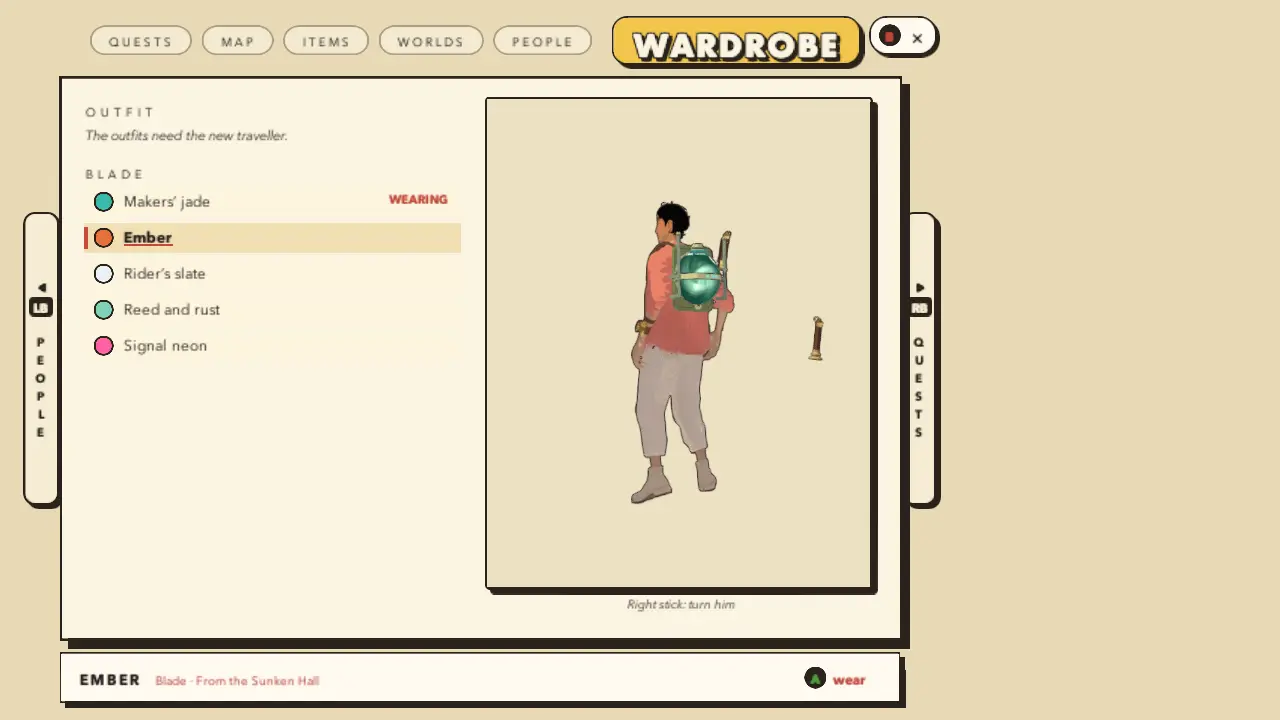
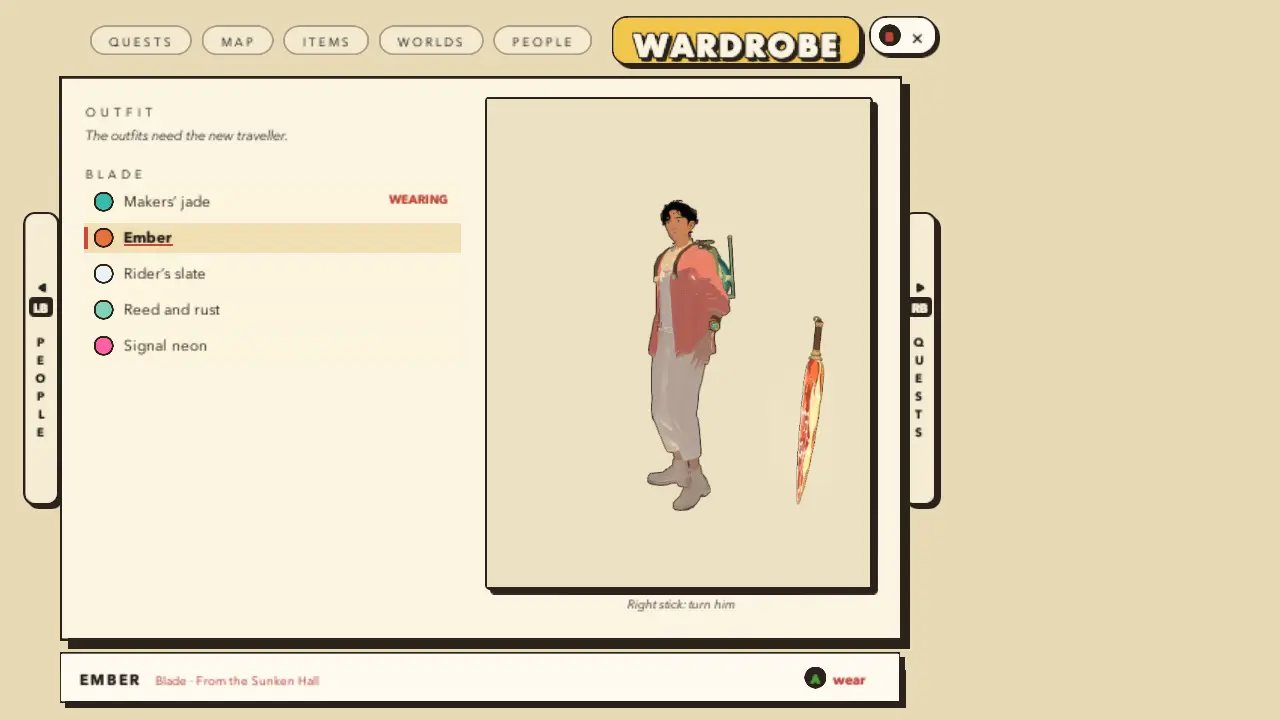
Fixes #571: the Wardrobe's sword shows its whole blade in Unity, in the colour the cursor is on; and on the page he breathes and glances about instead of standing frozen
- The cause: the blade (and the shield) are drawn by the Surface shader's fight variant (HIRAETH_FIGHT), which
  declares the foes' StructuredBuffer _SkinData; the blade's material was never given one. Metal skips any draw whose
  buffer is unbound ("Hiraeth/Surface requires a ComputeBuffer at index 3 to be bound, but none provided. Skipping
  draw calls" in the batch log), so the blade drew only in a fight, where a foe's draw had bound its buffer just
  before. Seen by forcing the keyword: with HIRAETH_FIGHT on every kept material the whole traveller vanished, with
  it off the blade drew (white); the main camera drew nothing of it either.
- The fix: WorldLoader binds the blade's and the shield's material an empty buffer of its own (NoSkinData, one slot).
  Checked in Unity (batch, muted, -wardrobe -wardrobe-yaw 0.9 -set-flags the four colours): the blade in jade, ember,
  slate and reed as the cursor moves, against the web's pictures of the same page at the same turn.
- He is not frozen on the page (src/wardrobe.js PageIdle, shared by both hosts): his chest breathes and sways, his
  head glances and nods, his shoulders move with the breath, over the pose the menu opened on (the upper body's bones
  only, turned about his own frame's axes: his feet stay planted); put back as he was when the page is left. Seen
  moving in both (the web's frames 1.3 s apart; Unity's shots of the pinned turn differ round the head).
[…]

Changed region(s): [[0.4688, 0.275, 0.5938, 0.7028], [0.625, 0.4889, 0.6562, 0.6722]]

diff --git a/src/wardrobe.js b/src/wardrobe.js
@@ -19,8 +19,8 @@
 //   w.preview(cell)          the highlighted cell (or null): him and the sword in it
 //   w.wear(kind, id)         A / × on a cell: saved and worn in the world
 //   w.leave()                the page left (another panel, the menu closed): him as he was, the sword put away
-//   w.place(shot) · w.tick(dt) · w.keep()   each drawn frame: the sword beside him for the shot, its breath, what the
-//                            preview draws (him, the sword)
+//   w.place(shot) · w.tick(dt) · w.keep()   each drawn frame: the sword beside him for the shot, its breath and his
+//                            (PageIdle: the world is still under the menu, he is not), what the preview draws (him, the sword)
 //   wardrobeShot(player, yaw) → { eye, look, fov }: the camera on him, `yaw` round him from his front
 
 import * as THREE from 'three';
@@ -168,6 +168,64 @@ export function placeSword(g, { eye, look }, feet, up, P = PLANTED) {
   return g;
 }
 
+// ------------------------------------------------------------------ him at rest on the page
+
+/**
+ * The world stands still under the menu, so he would too, frozen in the frame the menu opened on: on the page he breathes
+ * and looks about a little instead, over that pose, his upper body only (his feet stay planted). The chest `breath` rad at
+ * `breathRate` rad/s and `sway` rad side to side at `swayRate`; the head `look` rad round at `lookRate`, `nod` rad down
+ * and up; the shoulders `arms` rad in and out with the breath.
+ */
+export const PAGE_IDLE = { breath: 0.022, breathRate: 1.7, sway: 0.03, swayRate: 0.41, look: 0.13, lookRate: 0.27, nod: 0.03, arms: 0.03 };
+// (his skeleton's bones it moves: humanoid.js's names; each turned about an axis of his own frame, x across, y up, z ahead)
+const IDLE_BONES = ['spine_02', 'spine_03', 'neck_01', 'Head', 'upperarm_l', 'upperarm_r'];
+const _ax = new THREE.Vector3(), _iq = new THREE.Quaternion(), _rq = new THREE.Quaternion(), _bq = new THREE.Quaternion();
+/**
+ * The page's idle (wireWardrobe's): `pose(bones, root, t)` each frame the page draws him (`bones` humanoid.b, by name;
+ * `root` his object), `put()` him as he was when the page is left. The pose under it is taken again whenever something
+ * else moved him since (the game ran between two visits to the page).
+ */
+export class PageIdle {
+  constructor(P = PAGE_IDLE) { this.P = P; this.held = null; this.wrote = null; }
+  /** The bones' turns at time t (s), by name: [axis (his frame), rad]s. */
+  turns(t) {
+    const P = this.P, breath = Math.sin(t * P.breathRate), sway = Math.sin(t * P.swayRate + 0.6);
+    const look = Math.sin(t * P.lookRate) * Math.min(1, Math.abs(Math.sin(t * P.lookRate * 0.5 + 1)) * 1.6);   // (dwells, then glances)
+    return {
+      spine_02: [[1, 0, 0, -0.5 * P.breath * breath], [0, 0, 1, 0.5 * P.sway * sway]],
+      spine_03: [[1, 0, 0, -0.5 * P.breath * breath], [0, 0, 1, 0.5 * P.sway * sway]],
+      neck_01: [[0, 1, 0, 0.4 * P.look * look]],
+      Head: [[0, 1, 0, 0.6 * P.look * look], [1, 0, 0, P.nod * Math.sin(t * P.lookRate * 1.7 + 2)]],
+      upperarm_l: [[0, 0, 1, P.arms * (0.5 + 0.5 * breath)]],
+      upperarm_r: [[0, 0, 1, -P.arms * (0.5 + 0.5 * breath)]],
+    };
+  }
+  pose(bones, root, t) {
+    if (!bones || !root) return;
+    const list = IDLE_BONES.map((n) => [n, bones[n]]).filter(([, b]) => b?.quaternion);
+    if (!list.length) return;
+    // (the pose under it: taken when the page first draws him, and again if anything else posed him since)
+    const moved = !this.held || this.held.bones !== bones || list.some(([n, b]) => !this.wrote?.[n]?.equals(b.quaternion));
+    if (moved) this.held = { bones, q: Object.fromEntries(list.map(([n, b]) => [n, b.quaternion.clone()])) };
+    for (const [n, b] of list) b.quaternion.copy(this.held.q[n]);
+    root.updateMatrixWorld(true);
+    const T = this.turns(t), rootQ = root.getWorldQuaternion(_rq);
+    for (const [n, b] of list) {
+      // (about his frame's axis, through the bone's own turn in the world: the same on any rig's bone axes)
+      const inv = b.parent ? b.parent.getWorldQuaternion(_bq).multiply(b.quaternion).invert() : _bq.copy(b.quaternion).invert();
+      for (const [x, y, z, a] of T[n] ?? []) b.quaternion.multiply(_iq.setFromAxisAngle(_ax.set(x, y, z).applyQuaternion(rootQ).applyQuaternion(inv).normalize(), a));
+    }
+    root.updateMatrixWorld(true);
+    this.wrote = Object.fromEntries(list.map(([n, b]) => [n, b.quaternion.clone()]));
+  }
+  /** Him as he was under it (the page left). */
+  put() {
+    const H = this.held;
+    if (H) for (const [n, q] of Object.entries(H.q)) H.bones[n]?.quaternion.copy(q);
+    this.held = null; this.wrote = null;
+  }
+}
+
 // ------------------------------------------------------------------ the page's host
 
 /**
@@ -177,6 +235,7 @@ export function placeSword(g, { eye, look }, feet, up, P = PLANTED) {
  */
 export function wireWardrobe({ game, kit = null, tool = null, player = null, dress = () => null }) {
   let sword = null, shown = null, time = 0;
+  const idle = new PageIdle();
   // the outfit on him: the one wanted, put on one at a time (v2's first wear of an outfit loads it)
   let want = null, on = null, busy = false;
   const dressed = () => dress?.() ?? null;
@@ -220,6 +279,7 @@ export function wireWardrobe({ game, kit = null, tool = null, player = null, dre
       return false;
     },
     leave() {
+      idle.put();
       if (sword?.parent) sword.parent.remove(sword);
       if (dressed()) wearOutfit(chosenOutfit(game));
     },
@@ -229,6 +289,7 @@ export function wireWardrobe({ game, kit = null, tool = null, player = null, dre
     },
     tick(dt) {
       time += dt;
+      idle.pose(player?.humanoid?.b, player?.object, time);   // (him breathing, looking about: PageIdle)
       const U = sword?.userData.material?.uniforms;
       if (!U?.uBlade) return;
       U.uBlade.value.set(0, 1, time * BLADE_LOOK.breathRate, BLADE_QUALITY.lite ? 1 : 0);   // (its breath, as the box's sword)

diff --git a/tests/wardrobe.test.js b/tests/wardrobe.test.js
@@ -11,7 +11,7 @@ import * as THREE from 'three';
 globalThis.matchMedia ??= () => ({ matches: false });
 globalThis.window ??= new EventTarget();
 const W = await import('../src/wardrobe.js');
-const { OUTFITS, OUTFIT_KEY, outfitUnlocked, chosenOutfit, chooseOutfit, bladeColours, wardrobeData, previewOf, wireWardrobe, Turntable, TURN, wardrobeShot, SHOT, placeSword, plantedSword } = W;
+const { OUTFITS, OUTFIT_KEY, outfitUnlocked, chosenOutfit, chooseOutfit, bladeColours, wardrobeData, previewOf, wireWardrobe, Turntable, TURN, wardrobeShot, SHOT, placeSword, plantedSword, PageIdle, PAGE_IDLE } = W;
 const { GameMenu, PANELS, wardrobePanel } = await import('../src/game-menu.js');
 const { menuSources } = await import('../src/game-menu-data.js');
 const { EngineMenus } = await import('../engine/menus.js');
@@ -241,4 +241,73 @@ test('the engines\' menus: the same page, its preview following the cursor, A / 
   assert.match(eg, /if \(onWardrobe\) wardrobeCapture\(wardrobeAt\);/);
   assert.match(src('engine/unity/backend.js'), /this\.host\.Wardrobe\?\.\(JSON\.stringify/);
   assert.match(src('engine/unity/game.js'), /menus\.wardrobe = game\.wardrobe;/);
+});
+
+/** A skeleton as humanoid.js names it (the bones the page's idle moves, and a hand it leaves), under his object. */
+function skeleton() {
+  const root = new THREE.Group(), b = {};
+  const bone = (n, parent, y, x = 0) => { const o = new THREE.Bone(); o.name = n; o.position.set(x, y, 0); o.quaternion.setFromEuler(new THREE.Euler(0.1, 0.2 * x, 0.05)); parent.add(o); return (b[n] = o); };
+  const pelvis = bone('pelvis', root, 1), s2 = bone('spine_02', bone('spine_01', pelvis, 0.1), 0.15), s3 = bone('spine_03', s2, 0.15);
+  bone('Head', bone('neck_01', s3, 0.2), 0.1);
+  bone('hand_l', bone('lowerarm_l', bone('upperarm_l', s3, 0.15, 0.2), 0.3), 0.25);
+  bone('upperarm_r', s3, 0.15, -0.2);
+  root.rotation.y = 0.8; root.position.set(3, 1, 2);
+  root.updateMatrixWorld(true);
+  return { root, b };
+}
+const angle = (a, b) => 2 * Math.acos(Math.min(1, Math.abs(a.dot(b))));
+
+test('on the page he is not frozen: he breathes and looks about over the pose the menu opened on, gently, and is put back as he was', () => {
+  const { root, b } = skeleton();
+  const rest = Object.fromEntries(Object.entries(b).map(([n, o]) => [n, o.quaternion.clone()]));
+  const idle = new PageIdle();
+  const seen = { Head: [], spine_03: [], upperarm_l: [] };
+  for (let t = 0; t < 12; t += 0.25) {
+    idle.pose(b, root, t);
+    for (const n of Object.keys(seen)) seen[n].push(b[n].quaternion.clone());
+    for (const [n, o] of Object.entries(b)) assert.ok(angle(o.quaternion, rest[n]) < 0.2, `${n} only a little off the pose under it at ${t}`);
+    for (const n of ['pelvis', 'spine_01', 'lowerarm_l', 'hand_l']) assert.ok(o_eq(b[n].quaternion, rest[n]), `${n} left alone (his feet planted)`);
+  }
+  for (const [n, qs] of Object.entries(seen)) assert.ok(Math.max(...qs.map((q) => angle(q, rest[n]))) > 0.01, `${n} moves`);
+  idle.put();
+  for (const [n, o] of Object.entries(b)) assert.ok(o_eq(o.quaternion, rest[n]), `${n} as he was once the page is left`);
+  // the game ran between two visits (he was posed again): the pose under it taken again, not the old one put back
+  b.Head.quaternion.setFromEuler(new THREE.Euler(0, 0.7, 0));
+  const turned = b.Head.quaternion.clone();
+  idle.pose(b, root, 3); idle.pose(b, root, 3.5);
+  assert.ok(angle(b.Head.quaternion, turned) < 0.2, 'over the new pose');
+  idle.put();
+  assert.ok(o_eq(b.Head.quaternion, turned));
+  assert.ok(PAGE_IDLE.look < 0.2 && PAGE_IDLE.breath < 0.05, 'gentle');
+});
+function o_eq(a, b) { return angle(a, b) < 1e-6; }
+
+test('the page\'s host moves him each drawn frame and puts him back as he was when the page is left (web and engines: tick, leave)', () => {
+  const { w, player } = host({ v2: false });
+  const { root, b } = skeleton();
+  player.object.add(root); player.humanoid = { b };
+  const head = b.Head.quaternion.clone();
+  w.preview(null);
+  let most = 0;
+  for (let i = 0; i < 40; i++) { w.tick(0.1); most = Math.max(most, angle(b.Head.quaternion, head)); }
+  assert.ok(most > 0.01, 'not frozen');
+  w.leave();
+  assert.ok(o_eq(b.Head.quaternion, head), 'as he was');
+  // (the tick that poses him runs before each picture of him: engine/game.js wardrobeCapture, main.js wardrobeFrame)
+  assert.match(src('engine/game.js'), /wardrobe\.tick\(realDt\); wardrobe\.place\(wardrobeAt\);/);
+  const main = src('src/main.js'), frame = main.slice(main.indexOf('function wardrobeFrame()'), main.indexOf('function wardrobeFrame()') + 1200);
+  assert.ok(frame.indexOf('wardrobe.tick(dt)') > 0 && frame.indexOf('wardrobe.tick(dt)') < frame.indexOf('captureView('), 'the web: posed before the picture');
+});
+
+test('Unity: every fight-surface material (a foe, a crystal, the blade, the shield) is bound a buffer for the variant\'s _SkinData, so Metal draws it (issue #571: the Wardrobe\'s blade drew nothing)', () => {
+  const loader = src('unity/Hiraeth/Assets/Hiraeth/Runtime/WorldLoader.cs');
+  const sites = [...loader.matchAll(/mat\.EnableKeyword\("HIRAETH_FIGHT"\);/g)];
+  assert.ok(sites.length >= 3, 'the foes\', the crystal\'s and the blade\'s');
+  for (const m of sites) {
+    const block = loader.slice(loader.lastIndexOf('{', m.index), m.index);
+    assert.match(block, /SetSkinData\(mat, /, `a buffer bound before: ${block.slice(0, 80)}`);
+  }
+  assert.match(loader, /_BladeOn", m\.I\("blade"\)\);\s*SetSkinData\(mat, NoSkinData\);/);
+  // (the variant declares it: FoeSurface.hlsl's, which BladeSurface.hlsl's shares)
+  assert.match(src('unity/Hiraeth/Assets/Hiraeth/Shaders/FoeSurface.hlsl'), /StructuredBuffer<float4> _SkinData;/);
 });

diff --git a/src/changelog-media.js b/src/changelog-media.js
@@ -1332,7 +1332,7 @@ const END562 = 'Issue #562: the cinematics QC (node scripts/cinematics-qc.mjs --
 /** (v1.88, issues #568, #569: the Unity version's trails, box card, minigame hints and shadows) */
 const UNITY568 = 'Issues #568, #569: the Unity editor’s batch run on this Mac (node scripts/unity-compare/sequences.mjs unity plumb-talk,box,game-pirates-ice: -sequence, High, a 1280 × 720 screen, muted), the beat’s picture (plumb-talk’s bark, box’s card, the pirates’ run), cropped for the card and the hints; before: origin/main at 9a4f25a01, after: this change; 20 October; cwebp -q 72';
 const WARD571 = 'Issue #571: the web game in muted headless Chrome (High, 1280 × 720, 10:00) on a Vite of its own (port 5461), a save with the sword and four fight temples’ colours won, the game menu opened on the Wardrobe and the cursor moved with the arrows (the new traveller by ?traveller=v2); 20 October; cwebp -q 72';
-const WARD571U = 'Issue #571: the Unity editor’s batch run on this Mac (scripts/unity-js-run.sh -wardrobe: High, a 1280 × 720 screen, muted), the same save, the page opened and the cursor moved as on the web; 20 October; cwebp -q 72';
+const WARD571U = 'Issue #571: the Unity editor’s batch run on this Mac (scripts/unity-js-run.sh -wardrobe -wardrobe-yaw 0.9 -set-flags kit.colours.ember,kit.colours.slate,kit.colours.reed,kit.colours.neon: High, a 1280 × 720 screen, muted), the same save, the page opened and the cursor moved as on the web, him held at the same turn; 20 October; cwebp -q 72';
 const WEB568 = 'Issues #568, #569: the web game in muted headless Chrome (High, 1280 × 720) on a Vite of its own (port 5461, node scripts/unity-compare/sequences.mjs web), the same beats, cropped as the Unity pictures; 20 October; cwebp -q 72';
 const UNITY569S = 'Issue #569: the visual check (node scripts/unity-compare/run.mjs --worlds home,overnighttrain: High, 1280 × 720, muted, -fresh -no-hud), the Overnight Train’s wide view at dusk (18.6 h), cropped to the platform’s low wall; before: origin/main at 9a4f25a01, after: this change; the web’s from the same run (scripts/design-qc/capture.mjs --fixed-scale); 20 October; cwebp -q 72';
 const UNITY569C = 'Issue #569: the visual check (node scripts/unity-compare/run.mjs: High, 1280 × 720, muted, -fresh -no-hud), Home’s and the Overnight Train’s wide views at dusk (18.6 h), the Signal Market’s Ferro view of the changes set at noon, cropped; before: 49f762dbc, the cascades round the camera; after: this change, round the traveller; the web’s from the same run (scripts/design-qc/capture.mjs --fixed-scale); 20 October; cwebp -q 72';
@@ -1404,7 +1404,7 @@ export const CHANGELOG_MEDIA = {
     { match: 'The game menu has a new last page, the Wardrobe', tags: ['menus'], shots: [
       { name: 'wardrobe-571', only: 'after', title: 'The Wardrobe', size: [1280, 720], caption: 'The new page, the cursor on Ember: the colours won down the left, the traveller turning on the right, the sword beside him in the colour the cursor is on; the outfits wait for the new traveller', from: WARD571 },
       { name: 'wardrobe-v2-571', only: 'after', title: 'With the new traveller', size: [1280, 720], caption: 'The same page with the new traveller (still a test switch): the lamplighter’s outfit tried on as the cursor reaches it, his own clothes still worn', from: WARD571 },
-      { name: 'wardrobe-unity-571', only: 'after', title: 'In the Unity version', size: [1280, 720], caption: 'The page in Unity, the cursor on Ember: the same lists, the traveller drawn by Unity into its frame and turning; the sword beside him shows only its hilt there for now', from: WARD571U },
+      { name: 'wardrobe-unity-571', only: 'after', title: 'In the Unity version', size: [1280, 720], caption: 'The page in Unity, the cursor on Ember: the same lists, the traveller drawn by Unity into its frame, and the sword beside him whole in the colour the cursor is on, as on the web', from: WARD571U },
     ], see: 'Press View / Select, then LB / L1 once; move through the blade colours (won in the fight temples) and turn him with the right stick or by dragging.' },
     { match: 'In the Unity version, the graphics chip has fewer kinds of drawing to prepare', tags: ['perf', 'devices'], numbers: [
       { title: 'The surfaces’ drawing setups a world asks for (estimated, as the Xbox, the Deck and the Retroid draw them)', unit: 'setups', better: 'lower', device: MAC536, rows: [

diff --git a/src/changelog.js b/src/changelog.js
@@ -39,7 +39,8 @@ export const CHANGELOG = [
     'In the Unity version, the minigames have their pause button at the top right, as on the web: click it with the mouse or tap it to pause, as Menu does. It goes away while you play with a controller and comes back as soon as you use the mouse or the screen.',
     // issue #571: src/wardrobe.js, src/game-menu.js wardrobePanel (+ .css), main.js wardrobeFrame, engine/menus.js and
     // engine/game.js wardrobeCapture, BridgeMenu.Wardrobe.cs, BridgeRunner.Wardrobe; tests/wardrobe.test.js
-    'The game menu has a new last page, the Wardrobe, one LB / L1 from the Quests: the traveller stands on the right, drawn and lit as in the world and turning slowly (turn him yourself with the right stick or by dragging), and on the left you choose your sword’s colour among those you have won in the fight temples, shown on a sword standing beside him as you move through them. A / × wears it at once; B / ○ leaves him as he was. His outfits will be chosen there too once the new traveller arrives.',
+    // (src/wardrobe.js PageIdle: him breathing on the page; WorldLoader NoSkinData: the sword's blade drawn in Unity too)
+    'The game menu has a new last page, the Wardrobe, one LB / L1 from the Quests: the traveller stands on the right, drawn and lit as in the world, breathing and glancing about and turning slowly (turn him yourself with the right stick or by dragging), and on the left you choose your sword’s colour among those you have won in the fight temples, shown on a sword standing beside him as you move through them. A / × wears it at once; B / ○ leaves him as he was. His outfits will be chosen there too once the new traveller arrives.',
     // issue #536: unity/…/BridgeSided.cs (one cull mode: BackSide and DoubleSide surfaces on their triangles turned, the face
     // told by SV_PrimitiveID's parity, Surface.shader _Sides), BridgeRunner.cs (the uniform layout but on the Deck),
     // scripts/bench/pso-one-cull.mjs (the Xbox's and the Deck's lists), Android's list traced again; tests/unity-one-cull.test.js;

diff --git a/engine/unity/game.js b/engine/unity/game.js
@@ -678,7 +678,7 @@ function makePlan(args) {
   if (args.wardrobe) {
     // (-wardrobe: the game menu's Wardrobe, issue #571: opened, photographed, the cursor down through the blade's colours won
     // (the traveller's preview following it), one worn with A / ×, then closed: unity-wardrobe-<name>.png beside the web's)
-    // (a while on the page before the first picture: the editor may still be compiling a shader variant the page draws)
+    // (the colours won as the web's pictures have them: -set-flags kit.colours.ember,kit.colours.slate,kit.colours.reed,kit.colours.neon)
     const shot = (name) => (args.out ? [{ kind: 'shot', file: `${args.out}/unity-wardrobe-${name}.png` }] : []);
     steps.push({ kind: 'wait', frames: 120, secs: 4 }, { kind: 'wardrobe' }, { kind: 'wait', frames: 120, secs: 4 }, ...shot('open'));
     for (let i = 1; i <= 3; i++) steps.push({ kind: 'menu', x: 0, y: 1 }, { kind: 'wait', frames: 40, secs: 1.5 }, ...shot(`blade-${i}`));
@@ -1179,6 +1179,8 @@ function playFrame(dt) {
   else if (step.kind === 'wardrobe') {
     const M = S.menus;
     if (!step.log) M.show('game', 'wardrobe');
+    // (-wardrobe-yaw: him held there, as the web's pictures of the page pin him, so the two can be laid side by side)
+    if (!step.log && Number.isFinite(S.args?.wardrobeYaw)) { M.turntable.yaw = S.args.wardrobeYaw; M.turntable.idle = -Infinity; }
     const d = game.wardrobe?.data?.();
     console.log(`[unity] the Wardrobe: ${M.open ? M.state.panel.id : 'closed'}, v2 ${!!d?.v2}, sword ${!!d?.sword}, colours ${(d?.blades ?? []).map((b) => `${b.id}${b.worn ? '*' : ''}`).join(' ')}, beside him ${!!game.wardrobe?.sword?.parent}`);
     next();

diff --git a/unity/Hiraeth/Assets/Hiraeth/Runtime/WorldLoader.cs b/unity/Hiraeth/Assets/Hiraeth/Runtime/WorldLoader.cs
@@ -298,10 +298,14 @@ namespace Hiraeth
             // skins' buffer (engine/foe-pack.js; Surface.shader HIRAETH_FIGHT, FoeSurface.hlsl). Lean, as a skin: only on a foe that uses
             // none of the shader's rare paths (glass, a veil, dissolving, fluid, a drawn face, veins, a box, scrub), else as before
             // the fluid sword's living blade (1) or the guard's shield (2) (src/blade-shader.js, issue #264): HIRAETH_FIGHT's
-            // BladeSurface.hlsl, its live numbers _Blade, _BladeB, _BladeC (its fluid is its own: the full variant's paths unneeded)
+            // BladeSurface.hlsl, its live numbers _Blade, _BladeB, _BladeC (its fluid is its own: the full variant's paths unneeded).
+            // The variant declares the foes' buffer (_SkinData) though the blade reads none of it: an empty one of its own, or Metal
+            // skips its draws while no foe's buffer is bound before it ("requires a ComputeBuffer at index 3"): the Wardrobe's
+            // sword beside him drew its hilt alone, its blade only in a fight, after the foes (issue #571)
             else if (BladeLook && m.I("blade") > 0)
             {
                 mat.SetFloat("_BladeOn", m.I("blade"));
+                SetSkinData(mat, NoSkinData);
                 mat.EnableKeyword("HIRAETH_FIGHT");
             }
             // the chimes' crystal (src/crystal-shader.js): its uniforms packed the same way, aCrystal in the form's slot (_CrystalOn)
@@ -343,6 +347,8 @@ namespace Hiraeth
         }
         /// <summary>The skins' buffers, by material (each material its own: released with it, or all at once).</summary>
         static readonly Dictionary<Material, ComputeBuffer> skinBuffers = new();
+        /// <summary>A HIRAETH_FIGHT material with no uniforms to pack (the blade, the shield): one empty slot, so its buffer is bound.</summary>
+        static readonly float[] NoSkinData = new float[4];
         /// <summary>A skin material's packed uniforms (vec4 slots): its buffer made, or filled again (the bridge's op 21, live values).</summary>
         public static void SetSkinData(Material mat, float[] data)
         {

diff --git a/unity/Hiraeth/Assets/HiraethJS/Runtime/BridgeArgs.cs b/unity/Hiraeth/Assets/HiraethJS/Runtime/BridgeArgs.cs
@@ -219,6 +219,8 @@ namespace Hiraeth.Bridge
             if (Flag("-devmenu")) args["devmenu"] = true;
             // (-wardrobe: the game menu's Wardrobe opened, photographed through its blade colours, one worn: engine/unity/game.js, issue #571)
             if (Flag("-wardrobe")) args["wardrobe"] = true;
+            // (-wardrobe-yaw r: him held at r rad round from his front, not turning by himself: the same picture as the web's)
+            if (Arg("-wardrobe-yaw") != null) args["wardrobeYaw"] = double.Parse(Arg("-wardrobe-yaw"), CultureInfo.InvariantCulture);
             // (-house id [-house-room room] [-house-turn rad]: the Start menu's House map photographed floor by floor, issue #405: engine/unity/game.js)
             if (Arg("-house") != null) args["house"] = Arg("-house");
             if (Arg("-house-room") != null) args["houseRoom"] = Arg("-house-room");

diff --git a/changelog.md b/changelog.md
@@ -6,7 +6,7 @@ The same release notes shown in the game (press **N** or open settings).
 
 - In the Underwater City the ship no longer leaves you out in the sea with no way in: it now lands on a sea port, a round coral deck floating on the water over the city. A lift in the brass house in front of the ramp takes you down a glass shaft through the sea and in through the Dock’s dome, where Bastien keeps the lock: step on and stand to ride down, and ride it back up to your ship.
 - In the Unity version, the graphics chip has fewer kinds of drawing to prepare before a world appears: surfaces seen from both sides no longer need their own, and on the Xbox and computers every model is laid out the same way, so a world asks for about half as many of its surfaces’ (the Desert 17 instead of 33), and the Xbox prepares 55 at the start instead of 61. On Android handhelds the models keep their own layouts, which the Retroid draws faster, so its frame rate is as before. The worlds look the same.
-- The game menu has a new last page, the Wardrobe, one LB / L1 from the Quests: the traveller stands on the right, drawn and lit as in the world and turning slowly (turn him yourself with the right stick or by dragging), and on the left you choose your sword’s colour among those you have won in the fight temples, shown on a sword standing beside him as you move through them. A / × wears it at once; B / ○ leaves him as he was. His outfits will be chosen there too once the new traveller arrives.
+- The game menu has a new last page, the Wardrobe, one LB / L1 from the Quests: the traveller stands on the right, drawn and lit as in the world, breathing and glancing about and turning slowly (turn him yourself with the right stick or by dragging), and on the left you choose your sword’s colour among those you have won in the fight temples, shown on a sword standing beside him as you move through them. A / × wears it at once; B / ○ leaves him as he was. His outfits will be chosen there too once the new traveller arrives.
 - In the Unity version, the minigames have their pause button at the top right, as on the web: click it with the mouse or tap it to pause, as Menu does. It goes away while you play with a controller and comes back as soon as you use the mouse or the screen.
 - In the Unity version, the sun’s sharpest shadows now follow you as on the web, not the camera: Home’s stepping stones cast their little shadows at dusk again, the Overnight Train’s platform wall throws a smooth shadow of the right length, and the glowing screen on the Signal Market’s roof console no longer drops a dark patch down the console when you are across the roof from it.
 - In the Unity version, the sun’s shadows are filtered as on the web, their edges softer up close, and the near ones sit as tight against what casts them as on the web.

diff --git a/docs/systems/ui.md b/docs/systems/ui.md
@@ -743,9 +743,18 @@ main.js and engine/game.js), `src/game-menu.js` `wardrobePanel` and `GameMenu.wa
 - **Unity** (engine/menus.js, BridgeMenu.Wardrobe.cs, BridgeRunner.Wardrobe): the same rows and preview; engine/game.js
   draws him each frame the page shows (`wardrobeCapture`: his drawables and the sword's on a layer of their own for
   the portraits' camera, into one picture BridgeMenu shows in its frame). The engines draw B3, so the outfits' line
-  says they need the new traveller there too. Left: Unity's picture shows the sword beside him by its hilt alone (its
-  blade's node is mirrored, on the layer, in view and its renderer on, yet nothing of it is drawn; the held blade draws
-  in a fight).
+  says they need the new traveller there too. The sword beside him draws whole there since its blade's material is
+  bound a buffer: the blade and the shield are drawn by the Surface shader's fight variant (HIRAETH_FIGHT), which
+  declares the foes' `_SkinData` buffer, and the blade's material had none; Metal skips a draw whose buffer is unbound
+  ("requires a ComputeBuffer at index 3"), so the blade drew only in a fight, after a foe's draw had bound one
+  (WorldLoader: `NoSkinData`, an empty slot of its own; `tests/wardrobe.test.js`). `-wardrobe -out dir` photographs
+  the page, `-wardrobe-yaw r` holds him at r rad round (as the web's pictures pin him) and `-set-flags
+  kit.colours.ember,…` gives him the colours the web's pictures have.
+- **He is not frozen**: the world stands still under the menu, so he would too; on the page he breathes and looks
+  about a little over the pose the menu opened on (`PageIdle`, `PAGE_IDLE`: the chest's breath and sway, the head's
+  glances and nod, the shoulders with the breath; the upper body's bones only, turned about his own frame's axes, so
+  his feet stay planted), put back as he was when the page is left. The page's `tick` poses him before each picture,
+  in both hosts.
 
 ## Notices and the quest card (playtest 2026-10-08)
 

diff --git a/docs/systems/engine-bridge.md b/docs/systems/engine-bridge.md
@@ -173,7 +173,9 @@ the same entries in the same order, moved through by the web's own rules, and `v
   right stick turns him (`analog`'s `rx`). engine/game.js draws him each frame the page shows (`wardrobeCapture`:
   backend.js `wardrobe` → BridgeHost.Wardrobe → BridgeRunner.Wardrobe, the portraits' camera on layer 29 alone, his
   drawables and the sword beside him moved onto it for the moment: `BridgeRenderer.OnLayer`), into one picture
-  BridgeMenu.Wardrobe.cs shows in its frame. `-wardrobe -out dir` photographs it (`unity-wardrobe-<name>.png`).
+  BridgeMenu.Wardrobe.cs shows in its frame. `-wardrobe -out dir` photographs it (`unity-wardrobe-<name>.png`;
+  `-wardrobe-yaw r` holds him at r rad round, as the web's pictures do). Every HIRAETH_FIGHT material is bound a
+  `_SkinData` buffer (the blade's an empty one): Metal skips a draw whose buffer is unbound (docs/systems/ui.md).
 - **the House map** (issue #405, #487): inside a makers' house the game menu has a panel for it after Map
   (src/game-menu.js `panelsFor`; the house's view taken as the game menu opens, `house()`: engine/game.js
   `houseView`); the Start menu has none since issue #487 (nor Items, Quests or Map: `START_SIDE`). The game view
